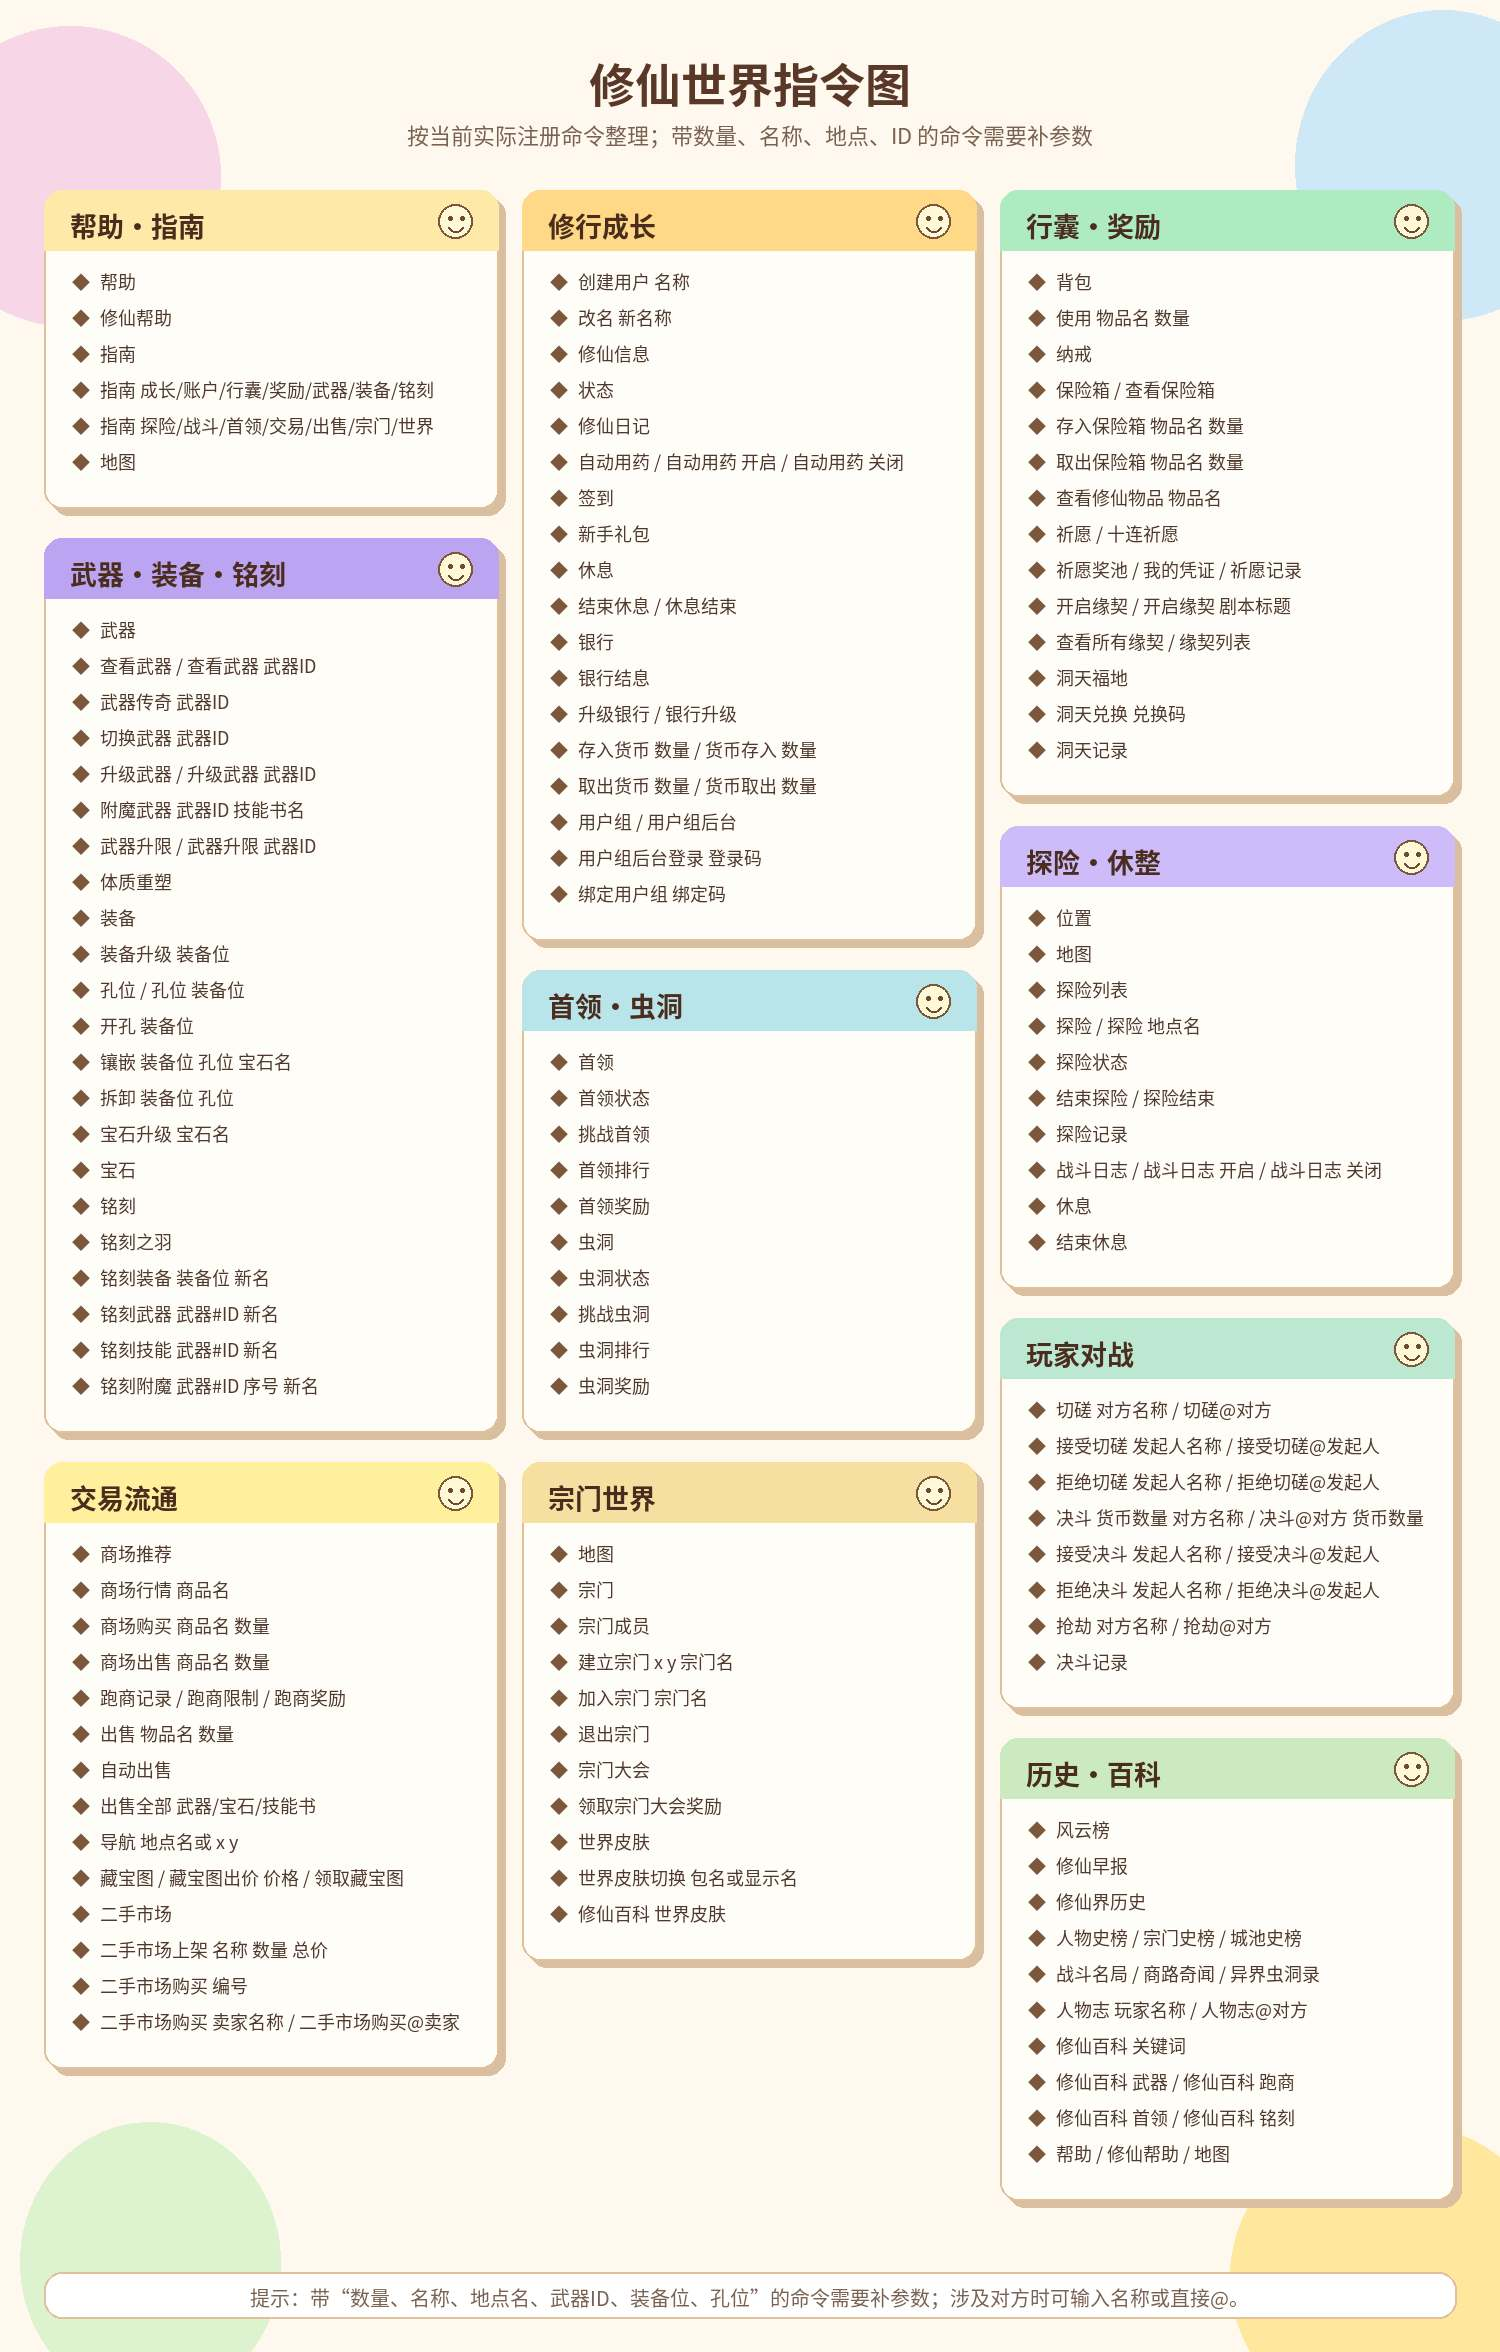
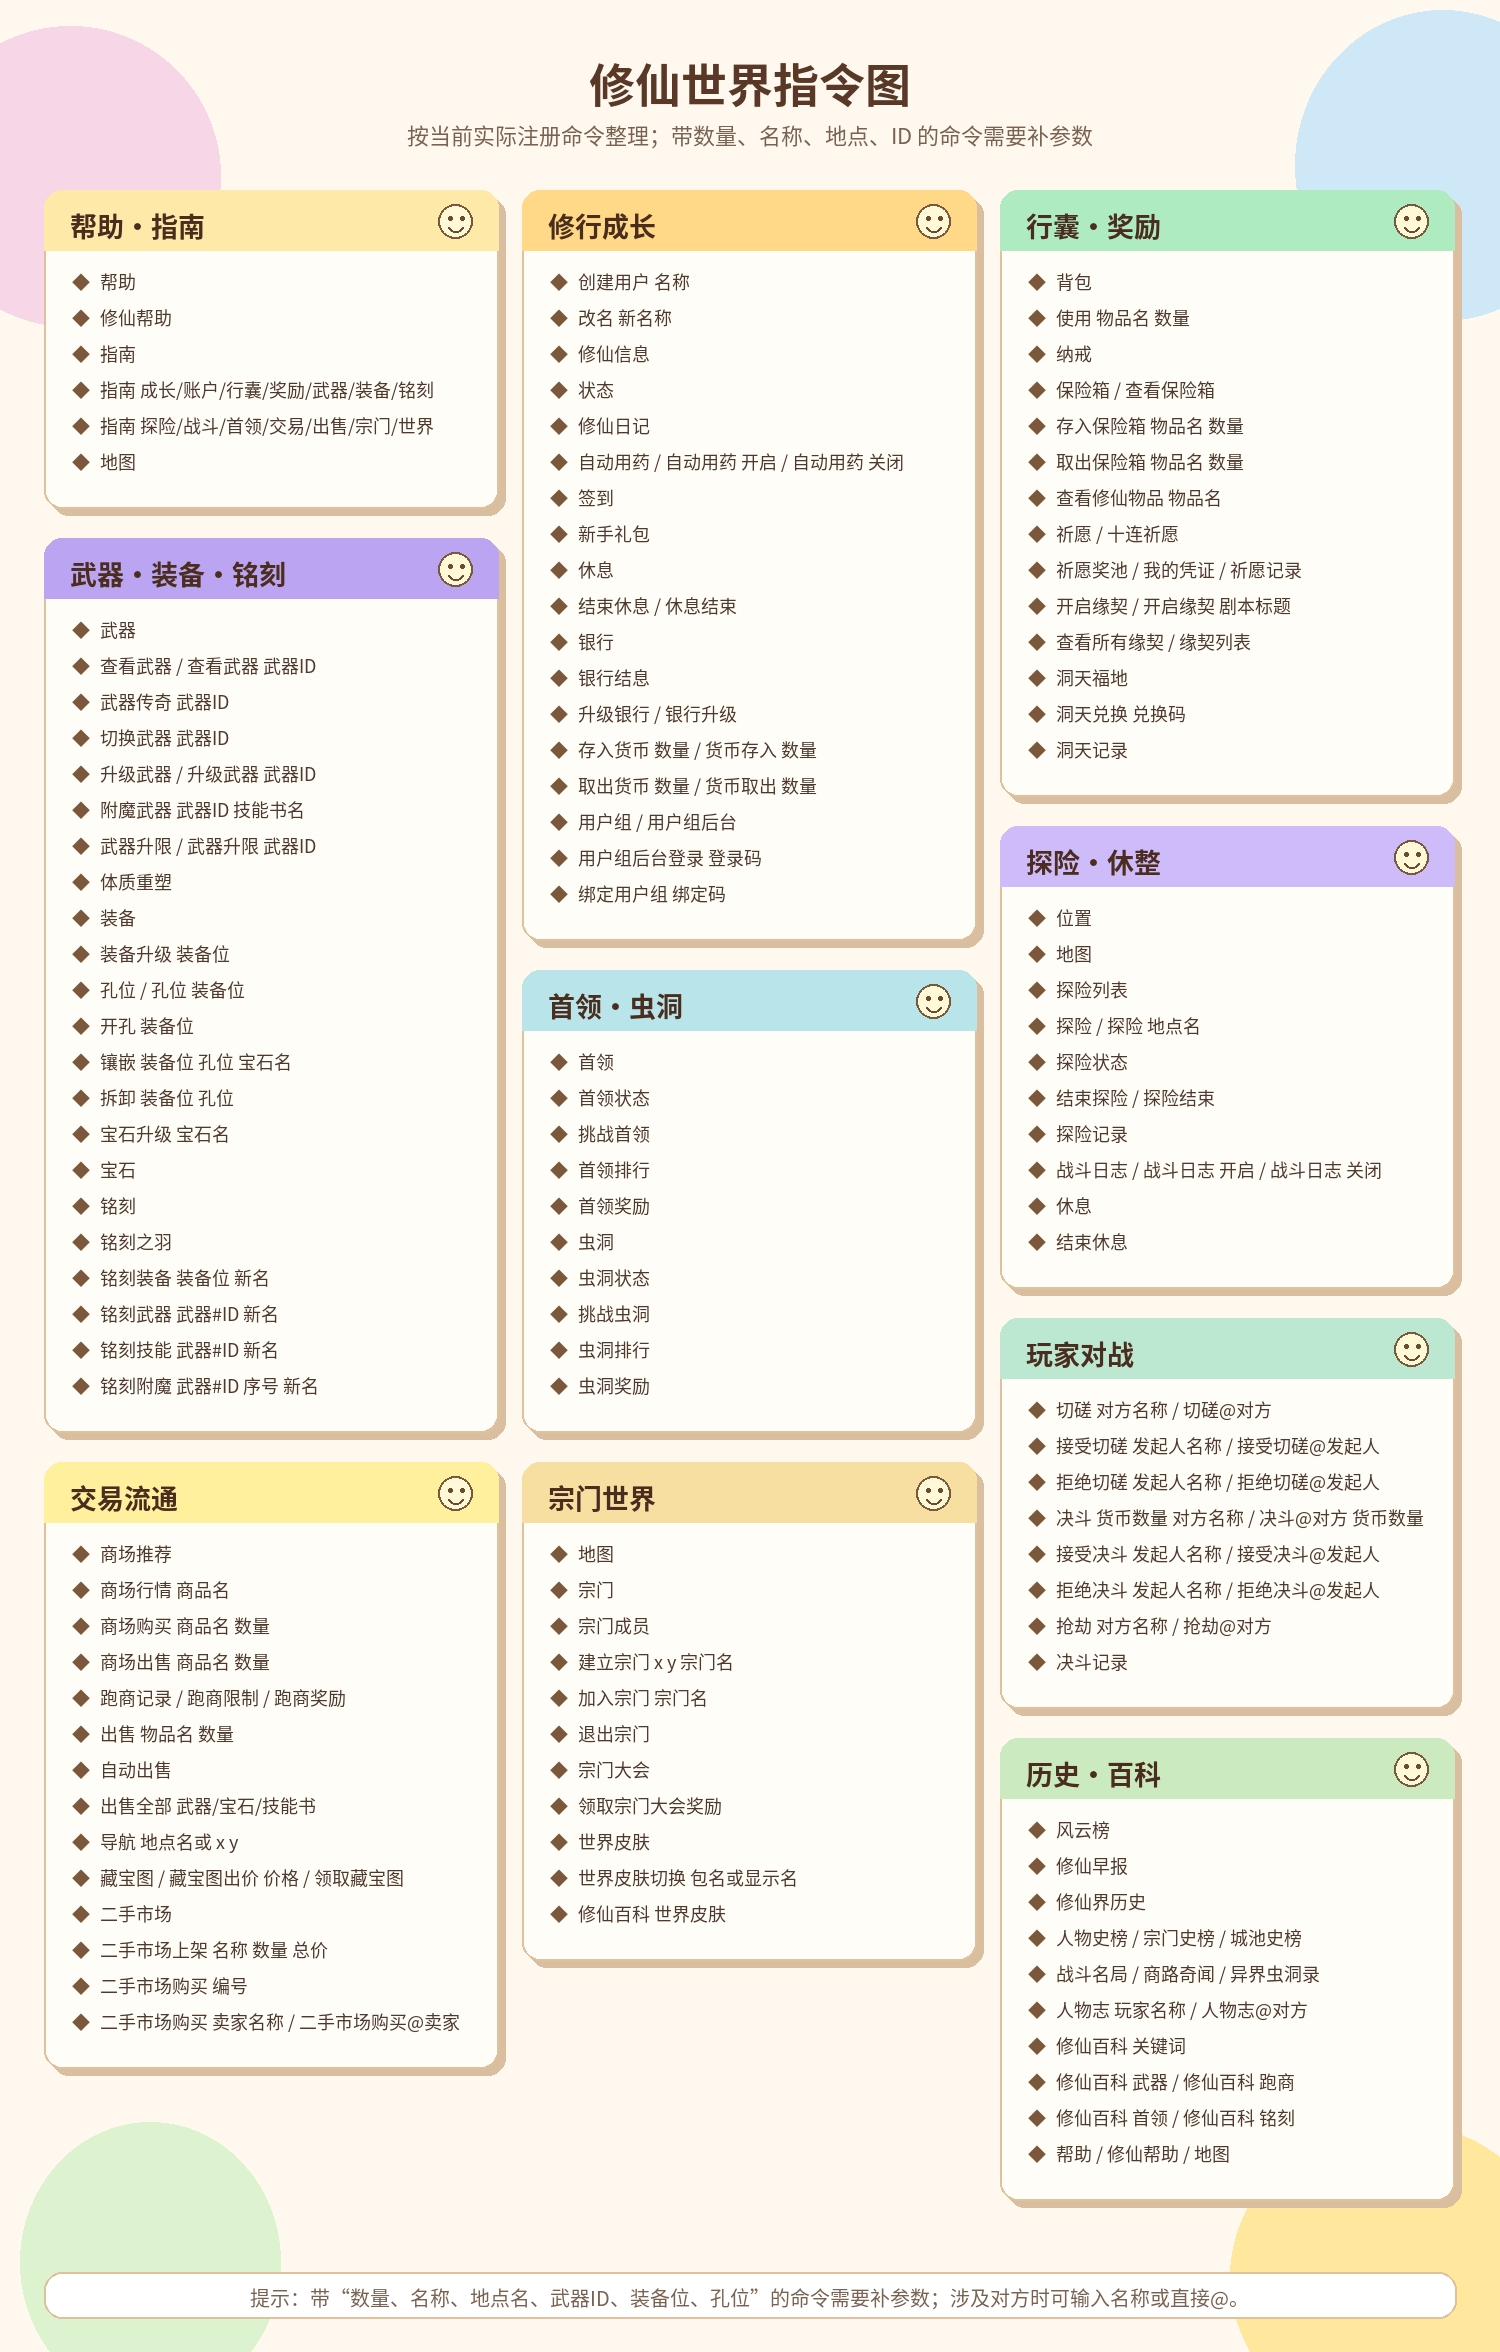
1

diff --git a/xiuxianserver/test/生成修仙帮助图.py b/xiuxianserver/test/生成修仙帮助图.py
@@ -365,7 +365,7 @@ def main() -> None:
     draw.text((footer_x, footer_y + 10), footer, font=footer_font, fill="#7A6252")
 
     OUTPUT.parent.mkdir(parents=True, exist_ok=True)
-    image.save(OUTPUT, format="JPEG", quality=62, optimize=True, progressive=True, subsampling=2)
+    image.save(OUTPUT, format="JPEG", quality=100, optimize=True, progressive=True, subsampling=2)
     print(f"saved={OUTPUT}")
     print(f"size={OUTPUT.stat().st_size}")
     print(f"image={image.width}x{image.height}")